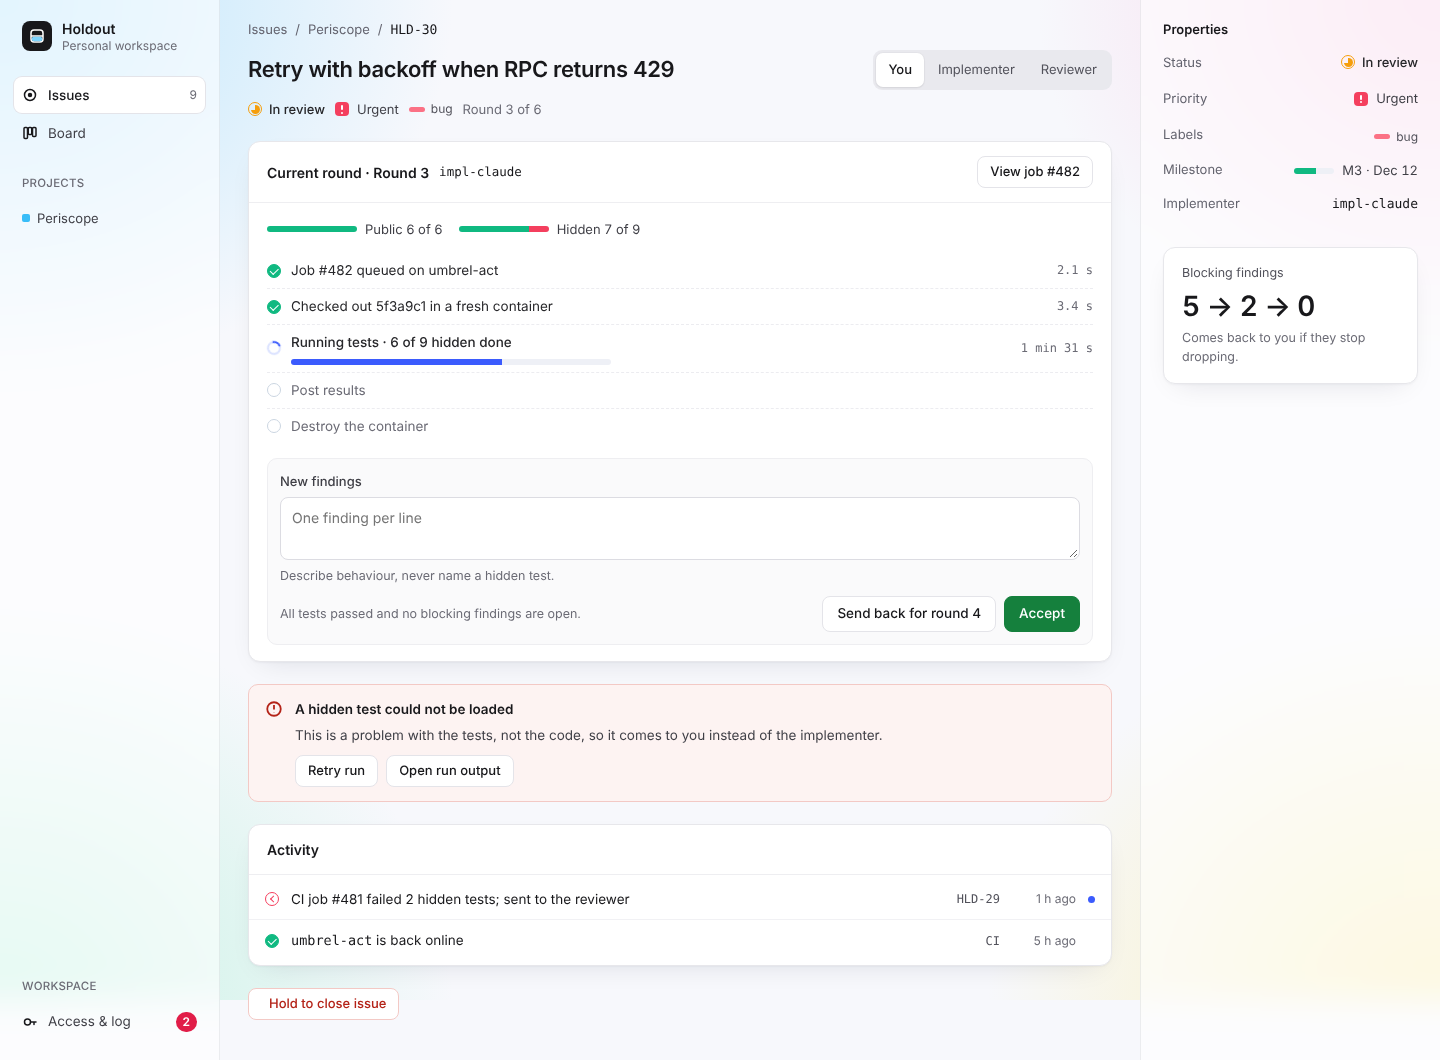
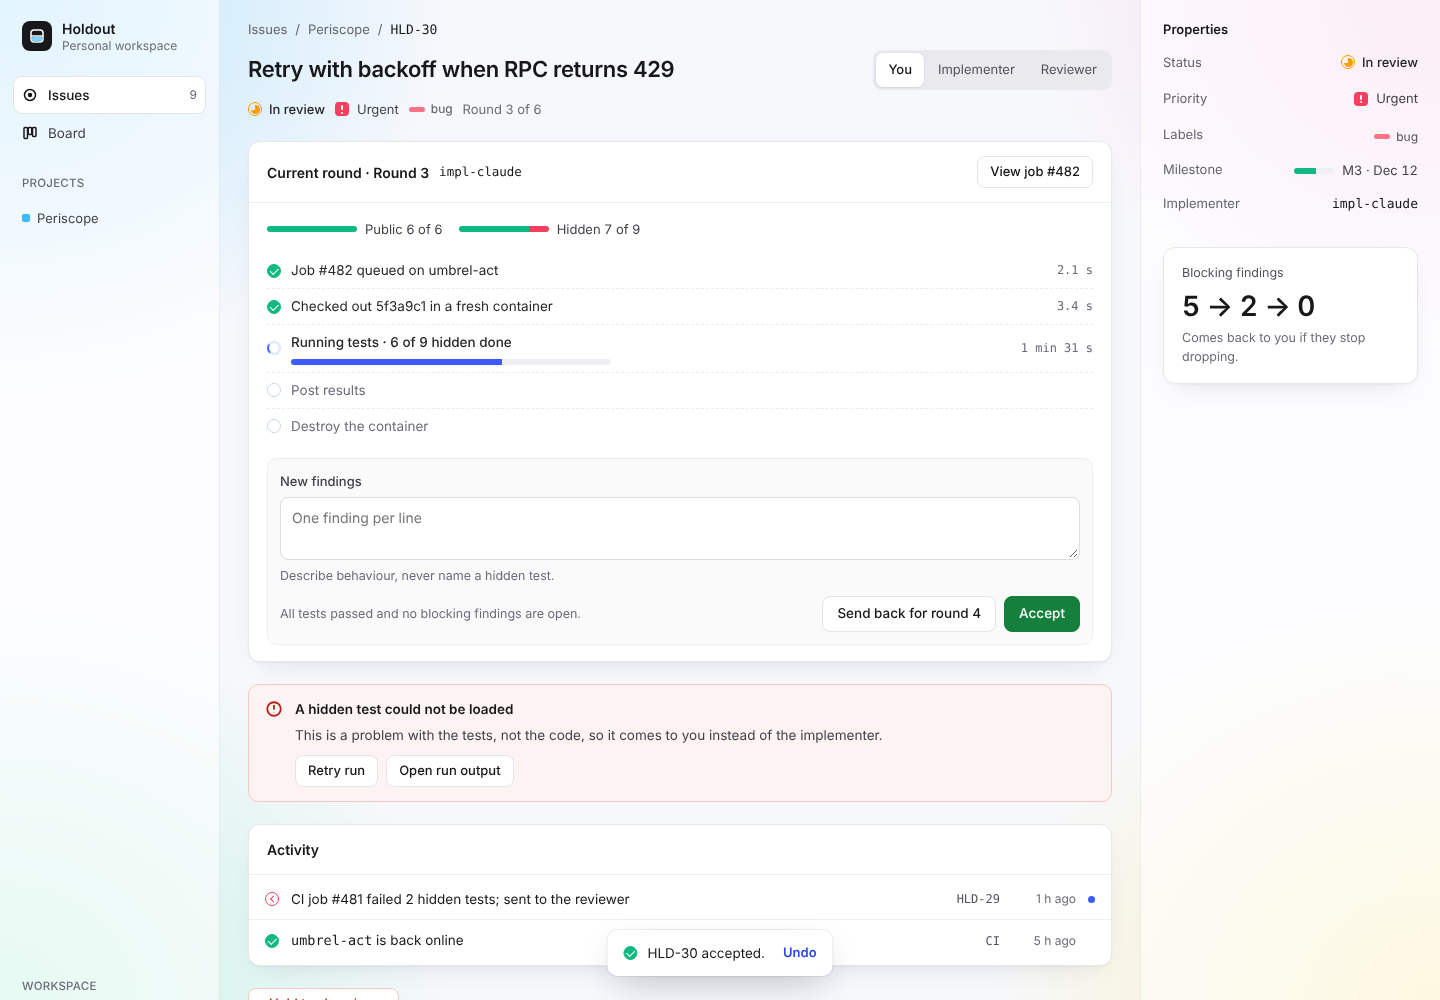
Make toasts and the bulk-action bar white
The system has no dark surfaces: floating bars are white, lifted by
shadow-toast, with ultramarine actions. Rules, check and screenshots updated.

Claude-Session: https://claude.ai/code/session_01BWLPP3FW5wfogL1E4kXt1d

diff --git a/css/omakase.css b/css/omakase.css
@@ -51,8 +51,8 @@
   --success: #15803D;
   --danger-tint: #FDF3F2;
   --danger-line: #F3C9C5;
-  --toast: #18181B;
-  --toast-link: #93C5FD;
+  --toast: #FFFFFF;
+  --toast-link: #2A48E8;
   --redaction: #E4E4EA;
   --redaction-light: #EDEDF1;
   --space-1: 4px;
@@ -79,7 +79,7 @@
   --shadow-card: 0 1px 2px rgba(15,23,42,0.04), 0 10px 28px -14px rgba(15,23,42,0.14);
   --shadow-menu: 0 18px 40px -16px rgba(15,23,42,0.35), 0 0 0 1px rgba(15,23,42,0.07);
   --shadow-modal: 0 24px 64px rgba(24,24,27,0.22);
-  --shadow-toast: 0 12px 32px rgba(24,24,27,0.24);
+  --shadow-toast: 0 14px 36px -10px rgba(15,23,42,0.28), 0 0 0 1px rgba(15,23,42,0.07);
   --shadow-ring: 0 0 0 1px #E4E4E9;
   --blur-glass: 16px;
   --font-sans: Inter, system-ui, -apple-system, "Segoe UI", sans-serif;
@@ -224,15 +224,15 @@
 .om-row-sel td{background:var(--accent-wash)}
 .om-chk{width:16px;height:16px;margin:0;accent-color:var(--accent)}
 
-/* Overlays */
+/* Overlays. Floating bars are white and lifted by shadow: there are no dark surfaces. */
 .om-modal{width:100%;max-width:560px;background:var(--surface);border-radius:var(--radius-2xl);box-shadow:var(--shadow-modal);display:flex;flex-direction:column}
 .om-modal-h{display:flex;align-items:center;padding:18px 22px;border-bottom:1px solid var(--line-soft)}
 .om-modal-b{padding:20px 22px;display:flex;flex-direction:column;gap:16px}
 .om-modal-f{display:flex;justify-content:flex-end;gap:8px;padding:14px 22px;border-top:1px solid var(--line-soft)}
 .om-scrim{background:rgba(24,24,27,.38);display:flex;align-items:center;justify-content:center;padding:24px}
-.om-toast{background:var(--toast);color:#FFFFFF;border-radius:var(--radius-lg);padding:0 8px 0 16px;min-height:46px;display:inline-flex;align-items:center;gap:10px;font-size:13.5px;box-shadow:var(--shadow-toast)}
+.om-toast{background:var(--toast);color:var(--ink);border-radius:var(--radius-lg);padding:0 8px 0 16px;min-height:46px;display:inline-flex;align-items:center;gap:10px;font-size:13.5px;box-shadow:var(--shadow-toast)}
 .om-toast-act{font:inherit;font-size:13px;font-weight:600;color:var(--toast-link);background:transparent;border:0;cursor:pointer;min-height:32px;padding:0 8px}
-.om-spin{width:14px;height:14px;box-sizing:border-box;border-radius:50%;border:2px solid rgba(255,255,255,.25);border-top-color:#FFFFFF;animation:om-spin .8s linear infinite;flex:none}
+.om-spin{width:14px;height:14px;box-sizing:border-box;border-radius:50%;border:2px solid var(--ratio-sealed-light);border-top-color:var(--accent);animation:om-spin .8s linear infinite;flex:none}
 .om-spin-d{width:14px;height:14px;box-sizing:border-box;border-radius:50%;border:2px solid var(--ratio-sealed-light);border-top-color:var(--accent);animation:om-spin .8s linear infinite;flex:none}
 @keyframes om-spin{to{transform:rotate(360deg)}}
 @media (prefers-reduced-motion:reduce){.om-spin,.om-spin-d{animation-duration:2.4s}}
@@ -287,9 +287,11 @@
 .om-overlay{position:fixed;inset:0;z-index:40;background:rgba(24,24,27,.38);display:flex;align-items:center;justify-content:center;padding:24px}
 .om-overlay-top{align-items:flex-start;padding-top:12vh;background:rgba(24,24,27,.32)}
 .om-toast-wrap{position:fixed;left:50%;bottom:24px;transform:translateX(-50%);z-index:50}
-.om-bulk{position:fixed;left:50%;bottom:24px;transform:translateX(-50%);z-index:45;background:var(--toast);color:#FFFFFF;border-radius:12px;padding:6px 6px 6px 16px;display:flex;align-items:center;gap:4px;font-size:13px;box-shadow:var(--shadow-toast);white-space:nowrap}
-.om-bulk-b{font:inherit;font-size:13px;color:#FFFFFF;background:transparent;border:0;border-radius:7px;min-height:32px;padding:0 10px;cursor:pointer;display:inline-flex;align-items:center;gap:7px}
-.om-bulk-b:hover{background:rgba(255,255,255,.12)}
+.om-bulk{position:fixed;left:50%;bottom:24px;transform:translateX(-50%);z-index:45;background:var(--toast);color:var(--ink);border-radius:12px;padding:6px 6px 6px 16px;display:flex;align-items:center;gap:4px;font-size:13px;box-shadow:var(--shadow-toast);white-space:nowrap}
+.om-bulk-b{font:inherit;font-size:13px;color:var(--ink-2);background:transparent;border:0;border-radius:7px;min-height:32px;padding:0 10px;cursor:pointer;display:inline-flex;align-items:center;gap:7px}
+.om-bulk-b:hover{background:var(--accent-wash);color:var(--ink)}
+.om-bulk-n{font-weight:600;color:var(--accent-strong);margin-right:8px}
+.om-bulk-sep{width:1px;height:18px;background:var(--line);margin-right:4px}
 .om-palette{width:100%;max-width:620px;background:var(--surface);border-radius:14px;box-shadow:0 30px 70px -20px rgba(15,23,42,.45),0 0 0 1px rgba(15,23,42,.06);display:flex;flex-direction:column;overflow:hidden}
 .om-palette-in{border:0;outline:0;font:inherit;font-size:15px;flex:1;min-width:0;color:var(--ink);background:transparent}
 .om-palette-g{font-size:11.5px;font-weight:600;letter-spacing:.04em;text-transform:uppercase;color:var(--ink-subtle);padding:10px 12px 4px}

diff --git a/css/components.css b/css/components.css
@@ -123,15 +123,15 @@
 .om-row-sel td{background:var(--accent-wash)}
 .om-chk{width:16px;height:16px;margin:0;accent-color:var(--accent)}
 
-/* Overlays */
+/* Overlays. Floating bars are white and lifted by shadow: there are no dark surfaces. */
 .om-modal{width:100%;max-width:560px;background:var(--surface);border-radius:var(--radius-2xl);box-shadow:var(--shadow-modal);display:flex;flex-direction:column}
 .om-modal-h{display:flex;align-items:center;padding:18px 22px;border-bottom:1px solid var(--line-soft)}
 .om-modal-b{padding:20px 22px;display:flex;flex-direction:column;gap:16px}
 .om-modal-f{display:flex;justify-content:flex-end;gap:8px;padding:14px 22px;border-top:1px solid var(--line-soft)}
 .om-scrim{background:rgba(24,24,27,.38);display:flex;align-items:center;justify-content:center;padding:24px}
-.om-toast{background:var(--toast);color:#FFFFFF;border-radius:var(--radius-lg);padding:0 8px 0 16px;min-height:46px;display:inline-flex;align-items:center;gap:10px;font-size:13.5px;box-shadow:var(--shadow-toast)}
+.om-toast{background:var(--toast);color:var(--ink);border-radius:var(--radius-lg);padding:0 8px 0 16px;min-height:46px;display:inline-flex;align-items:center;gap:10px;font-size:13.5px;box-shadow:var(--shadow-toast)}
 .om-toast-act{font:inherit;font-size:13px;font-weight:600;color:var(--toast-link);background:transparent;border:0;cursor:pointer;min-height:32px;padding:0 8px}
-.om-spin{width:14px;height:14px;box-sizing:border-box;border-radius:50%;border:2px solid rgba(255,255,255,.25);border-top-color:#FFFFFF;animation:om-spin .8s linear infinite;flex:none}
+.om-spin{width:14px;height:14px;box-sizing:border-box;border-radius:50%;border:2px solid var(--ratio-sealed-light);border-top-color:var(--accent);animation:om-spin .8s linear infinite;flex:none}
 .om-spin-d{width:14px;height:14px;box-sizing:border-box;border-radius:50%;border:2px solid var(--ratio-sealed-light);border-top-color:var(--accent);animation:om-spin .8s linear infinite;flex:none}
 @keyframes om-spin{to{transform:rotate(360deg)}}
 @media (prefers-reduced-motion:reduce){.om-spin,.om-spin-d{animation-duration:2.4s}}
@@ -186,9 +186,11 @@
 .om-overlay{position:fixed;inset:0;z-index:40;background:rgba(24,24,27,.38);display:flex;align-items:center;justify-content:center;padding:24px}
 .om-overlay-top{align-items:flex-start;padding-top:12vh;background:rgba(24,24,27,.32)}
 .om-toast-wrap{position:fixed;left:50%;bottom:24px;transform:translateX(-50%);z-index:50}
-.om-bulk{position:fixed;left:50%;bottom:24px;transform:translateX(-50%);z-index:45;background:var(--toast);color:#FFFFFF;border-radius:12px;padding:6px 6px 6px 16px;display:flex;align-items:center;gap:4px;font-size:13px;box-shadow:var(--shadow-toast);white-space:nowrap}
-.om-bulk-b{font:inherit;font-size:13px;color:#FFFFFF;background:transparent;border:0;border-radius:7px;min-height:32px;padding:0 10px;cursor:pointer;display:inline-flex;align-items:center;gap:7px}
-.om-bulk-b:hover{background:rgba(255,255,255,.12)}
+.om-bulk{position:fixed;left:50%;bottom:24px;transform:translateX(-50%);z-index:45;background:var(--toast);color:var(--ink);border-radius:12px;padding:6px 6px 6px 16px;display:flex;align-items:center;gap:4px;font-size:13px;box-shadow:var(--shadow-toast);white-space:nowrap}
+.om-bulk-b{font:inherit;font-size:13px;color:var(--ink-2);background:transparent;border:0;border-radius:7px;min-height:32px;padding:0 10px;cursor:pointer;display:inline-flex;align-items:center;gap:7px}
+.om-bulk-b:hover{background:var(--accent-wash);color:var(--ink)}
+.om-bulk-n{font-weight:600;color:var(--accent-strong);margin-right:8px}
+.om-bulk-sep{width:1px;height:18px;background:var(--line);margin-right:4px}
 .om-palette{width:100%;max-width:620px;background:var(--surface);border-radius:14px;box-shadow:0 30px 70px -20px rgba(15,23,42,.45),0 0 0 1px rgba(15,23,42,.06);display:flex;flex-direction:column;overflow:hidden}
 .om-palette-in{border:0;outline:0;font:inherit;font-size:15px;flex:1;min-width:0;color:var(--ink);background:transparent}
 .om-palette-g{font-size:11.5px;font-weight:600;letter-spacing:.04em;text-transform:uppercase;color:var(--ink-subtle);padding:10px 12px 4px}

diff --git a/react/components/Feedback.tsx b/react/components/Feedback.tsx
@@ -38,13 +38,13 @@ export function Toast({ state, children, action }: { state: 'pending' | 'done' |
   );
 }
 
-/** Dark floating bar for actions on selected rows. */
+/** White floating bar for actions on selected rows. */
 export function BulkBar({ count, onClear, children }: { count: number; onClear: () => void; children: React.ReactNode }) {
   if (count === 0) return null;
   return (
     <div className="om-bulk" role="toolbar" aria-label="Bulk actions">
-      <span style={{ fontWeight: 600, marginRight: 8 }}>{count} selected</span>
-      <span aria-hidden="true" style={{ width: 1, height: 18, background: 'rgba(255,255,255,.18)', marginRight: 4 }} />
+      <span className="om-bulk-n">{count} selected</span>
+      <span aria-hidden="true" className="om-bulk-sep" />
       {children}
       <button type="button" className="om-bulk-b" aria-label="Clear selection" onClick={onClear}>×</button>
     </div>

diff --git a/examples/app.html b/examples/app.html
@@ -89,6 +89,6 @@
     </section>
   </main>
 </div>
-<div class="om-bulk" role="toolbar" aria-label="Bulk actions"><span style="font-weight:600;margin-right:8px">1 selected</span><span aria-hidden="true" style="width:1px;height:18px;background:rgba(255,255,255,.18);margin-right:4px"></span><button class="om-bulk-b">Priority</button><button class="om-bulk-b">Labels</button><button class="om-bulk-b">Close</button><button class="om-bulk-b" aria-label="Clear selection">×</button></div>
+<div class="om-bulk" role="toolbar" aria-label="Bulk actions"><span class="om-bulk-n">1 selected</span><span aria-hidden="true" class="om-bulk-sep"></span><button class="om-bulk-b">Priority</button><button class="om-bulk-b">Labels</button><button class="om-bulk-b">Close</button><button class="om-bulk-b" aria-label="Clear selection">×</button></div>
 </body>
 </html>

diff --git a/tokens/tokens.css b/tokens/tokens.css
@@ -50,8 +50,8 @@
   --success: #15803D;
   --danger-tint: #FDF3F2;
   --danger-line: #F3C9C5;
-  --toast: #18181B;
-  --toast-link: #93C5FD;
+  --toast: #FFFFFF;
+  --toast-link: #2A48E8;
   --redaction: #E4E4EA;
   --redaction-light: #EDEDF1;
   --space-1: 4px;
@@ -78,7 +78,7 @@
   --shadow-card: 0 1px 2px rgba(15,23,42,0.04), 0 10px 28px -14px rgba(15,23,42,0.14);
   --shadow-menu: 0 18px 40px -16px rgba(15,23,42,0.35), 0 0 0 1px rgba(15,23,42,0.07);
   --shadow-modal: 0 24px 64px rgba(24,24,27,0.22);
-  --shadow-toast: 0 12px 32px rgba(24,24,27,0.24);
+  --shadow-toast: 0 14px 36px -10px rgba(15,23,42,0.28), 0 0 0 1px rgba(15,23,42,0.07);
   --shadow-ring: 0 0 0 1px #E4E4E9;
   --blur-glass: 16px;
   --font-sans: Inter, system-ui, -apple-system, "Segoe UI", sans-serif;

diff --git a/AGENTS.md b/AGENTS.md
@@ -22,7 +22,7 @@ Look at `docs/screenshots/` first to see the target, then read this file. `docs/
 - **No count pills**: show proportions with a `RatioBar` and the numbers in plain text ("7 of 9", "5 public + 8 sealed").
 - **No grey look**: no grey tab strips, grey selected tabs, grey toolbars or grey page backgrounds. Strips are white; hover is `accent-wash` (faint blue).
 - **No side sheets or drawers.** Every pop-up is a centered `Modal` (or the ⌘K palette near the top).
-- **No dark surfaces** except the small floating toast and the bulk-action bar. No dark sidebars, headers, cards or hero sections.
+- **No dark surfaces at all**: no dark sidebars, headers, cards, hero sections, toasts or floating bars. Floating bars (toast, bulk actions) are white, lifted by `--shadow-toast`.
 - **No texture**: no grain, noise, dot grids, line grids, topographic patterns. The only background decoration is the four corner blooms (`om-canvas`).
 - **One accent**: ultramarine `--accent` for the main action, focus, selection and progress. Do not introduce purple, orange-brown or extra brand colours. Green `--success` is only for the final Accept/approve.
 - **No gradients** other than the corner blooms and the sealed hatch already defined.
@@ -53,7 +53,7 @@ Look at `docs/screenshots/` first to see the target, then read this file. `docs/
 | a long job | `RunSteps` with the cleanup step at the end | a lone spinner |
 | hidden or not-allowed content | `Redaction` + a line saying what is hidden | blurring |
 | a feed of events | `ActivityItem` rows in a `Card flush` | a timeline with avatars |
-| actions on selected rows | `BulkBar` | a toolbar that appears above the table |
+| actions on selected rows | `BulkBar` (white, floating) | a dark bar, or a toolbar that appears above the table |
 | quick navigation | `CommandPalette` on ⌘K | a mega menu |
 | loading | `Skeleton` lines | shimmer sweeps |
 
@@ -86,7 +86,7 @@ Run `node scripts/check.mjs src` (from an installed copy: `node omakase/scripts/
 
 1. No element looks like a pill/badge/tag. Search your code for `rounded-full`, `badge`, `chip`, `pill`, `tag`.
 2. Exactly one primary (ultramarine) button per view.
-3. No grey strip or grey selected state; no side sheet; no dark block besides toast/bulk bar.
+3. No grey strip or grey selected state; no side sheet; no dark block anywhere.
 4. Every colour, radius and shadow comes from a token.
 5. Counts and progress use ratio bars with plain-text numbers.
 6. Copy is sentence case, verb-first, says what happens.

diff --git a/docs/components.md b/docs/components.md
@@ -235,7 +235,7 @@ The main list: 52px rows inside a card, whole row clickable, checkbox for bulk s
 
 - Order inside the first cell: priority glyph, mono ID, title (500), up to two marks.
 - Status as a StatusGlyph, tests as a RatioBar, round as plain text (red at the cap).
-- Selected rows get `om-row-sel` (blue wash) and a dark bulk-action bar floats at the bottom of the screen.
+- Selected rows get `om-row-sel` (blue wash) and a white bulk-action bar floats at the bottom of the screen.
 - Use `tabular-nums` for every numeric column.
 
 ```tsx
@@ -263,11 +263,11 @@ Centered dialog, 560px wide, 16px radius, over a 38% dark scrim. Never a side sh
 
 ## Toast
 
-A small dark bar at the bottom centre that confirms an action: pending with a spinner, then done with Undo.
+A small white floating bar at the bottom centre that confirms an action: pending with a spinner, then done with Undo.
 
-- `om-toast`; action buttons inside use `om-toast-act` (light blue).
-- The bulk-action bar uses the same dark surface and position.
-- These are the only dark surfaces in the system: keep them small and floating.
+- `om-toast`; action buttons inside use `om-toast-act` (ultramarine).
+- The bulk-action bar uses the same white floating surface and position.
+- Never make them dark: the system has no dark surfaces.
 
 ```tsx
 <Toast state="done" action={{ label: "Undo", onClick: undo }}>HLD-31 approved.</Toast>

diff --git a/docs/principles.md b/docs/principles.md
@@ -23,7 +23,7 @@
 - Data: `ratio-pass`, `ratio-fail`, `ratio-sealed` hatched with `ratio-sealed-light`, on `ratio-track`.
 - Labels: `label-bug`, `label-feature`, `label-perf`, `label-security`; chore uses `mark-advisory`.
 - Projects get a bright 8px square: `project-sky`, `project-pink`, `project-amber`.
-- The only dark surface is `toast` (toasts and the bulk-action bar), always small and floating.
+- There are no dark surfaces. Toasts and the bulk-action bar are white (`toast`) and float on `shadow-toast`.
 
 ## Type
 
